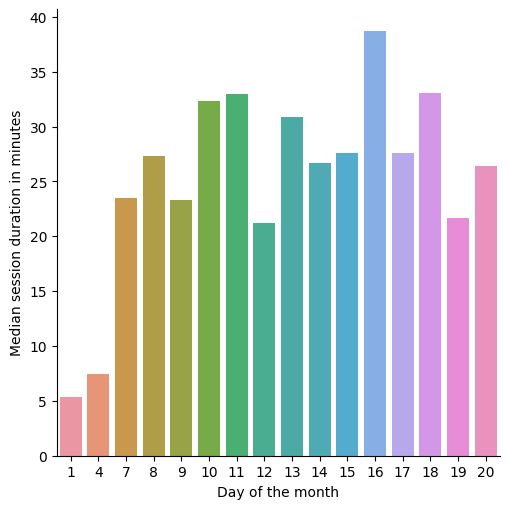
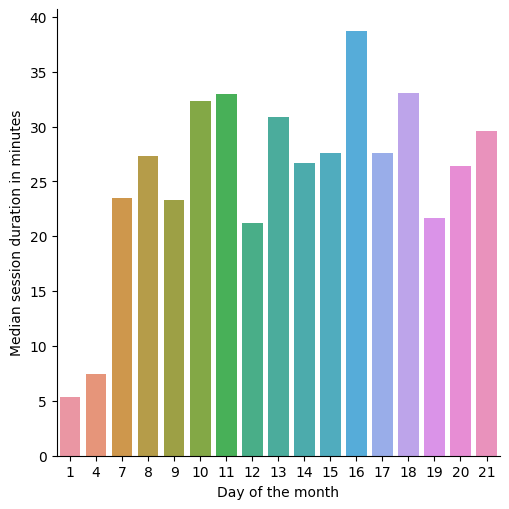
"Stats generated 2021-10-22"

diff --git a/all/2021/10/days/21/index.html b/all/2021/10/days/21/index.html
@@ -1,0 +1,29 @@
+<!DOCTYPE html>
+<html>
+  <head>
+    <meta charset="utf-8"/>
+    <title>21 October 2021</title>
+    <link rel="stylesheet" href="../../../../../styles.css"/>
+  </head>
+  <body>
+    <div id="container">
+      <nav>
+        <ul>
+          
+            <li><a href="../../">October 2021</a></li>
+            <li class="separator"></li>
+          
+          
+        </ul>
+      </nav>
+      <main>
+        <h1>21 October 2021</h1>
+        
+          <h2>Number of sessions per hour</h2>
+          <img src="sessions.png" alt="Number of sessions per hour"/>
+        
+        
+      </main>
+    </div>
+  </body>
+</html>

diff --git a/all/2021/index.html b/all/2021/index.html
@@ -143,9 +143,9 @@
                   
                     <td>10.0</td>
                   
-                    <td>153.0</td>
+                    <td>174.0</td>
                   
-                    <td>25.490694233333333</td>
+                    <td>25.832994966666668</td>
                   
                 </tr>
               

diff --git a/all/2021/10/index.html b/all/2021/10/index.html
@@ -114,6 +114,10 @@
               <li><a href="days/20/">20</a></li>
             
           
+            
+              <li><a href="days/21/">21</a></li>
+            
+          
         </ul>
       </nav>
       <main>
